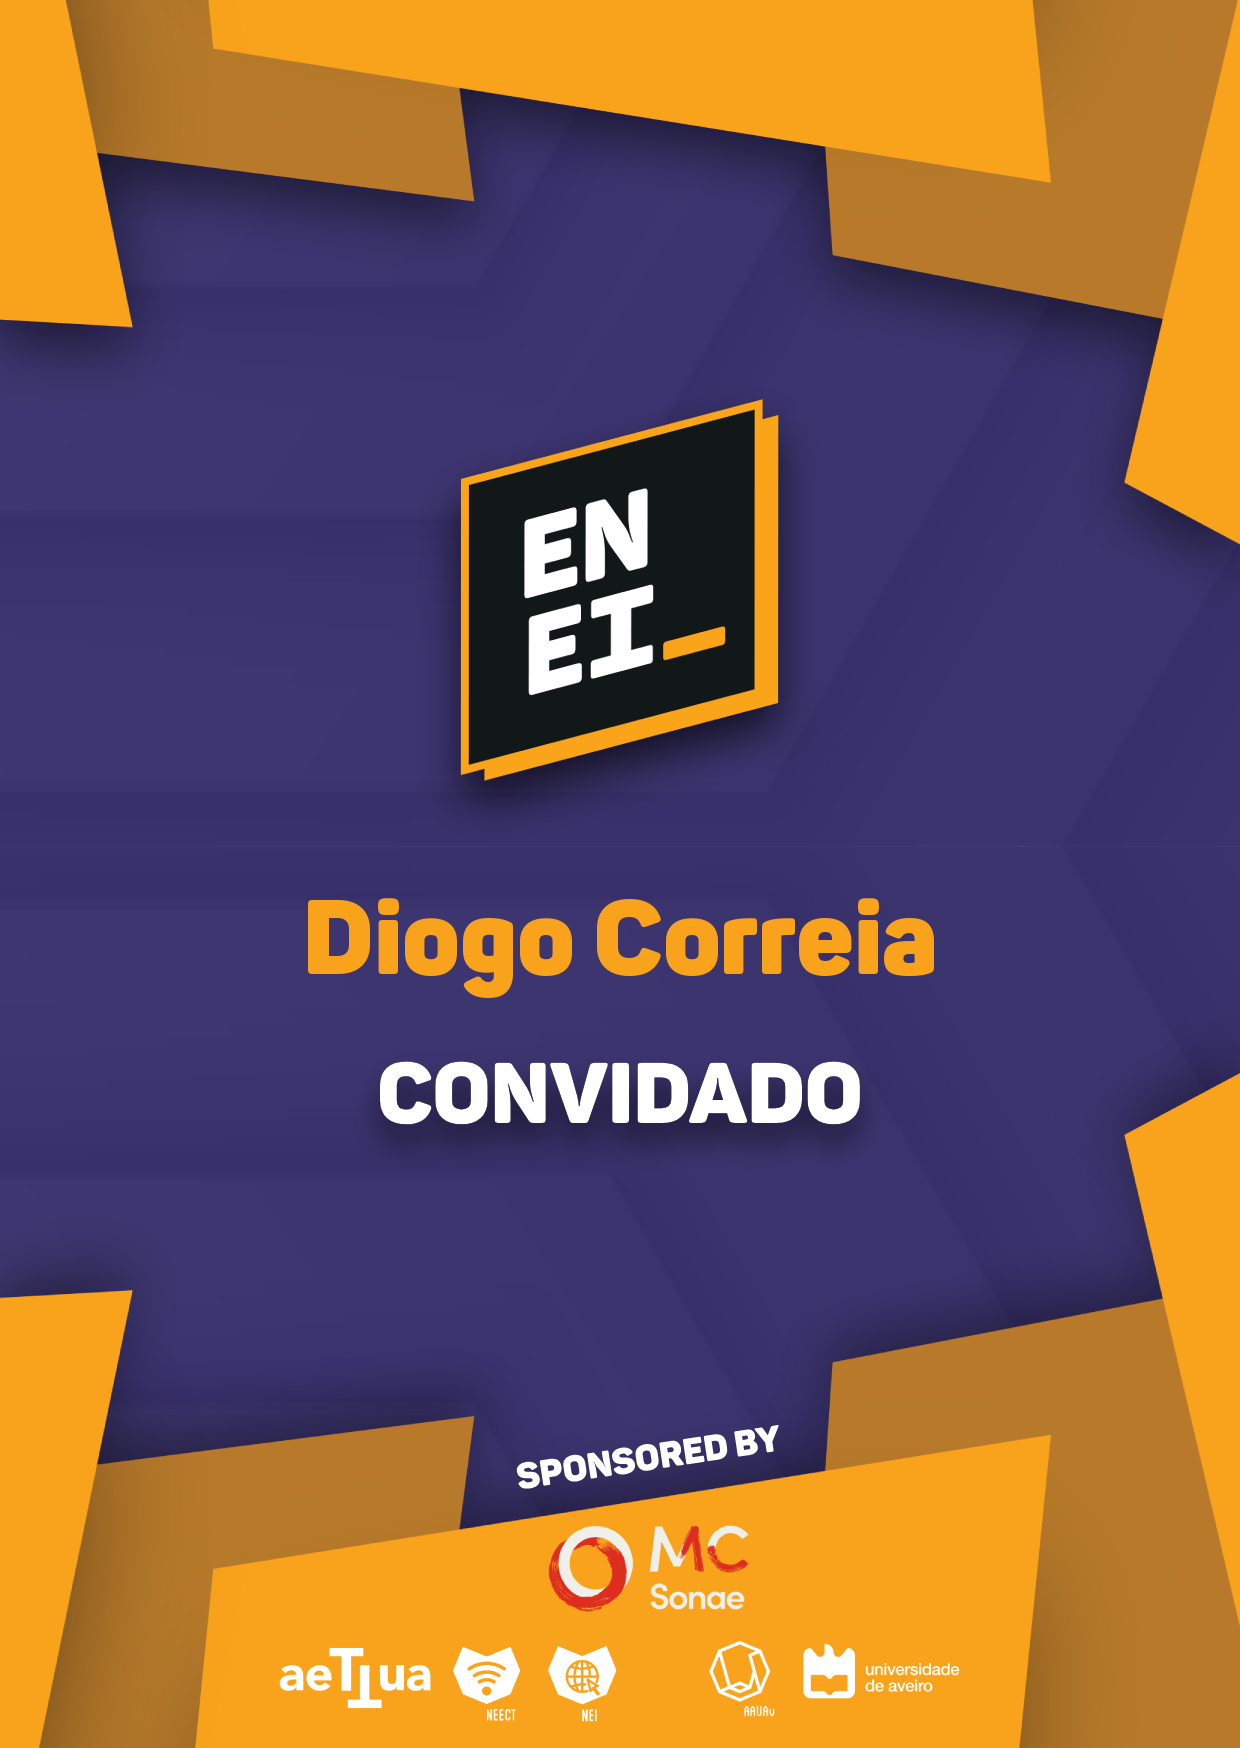
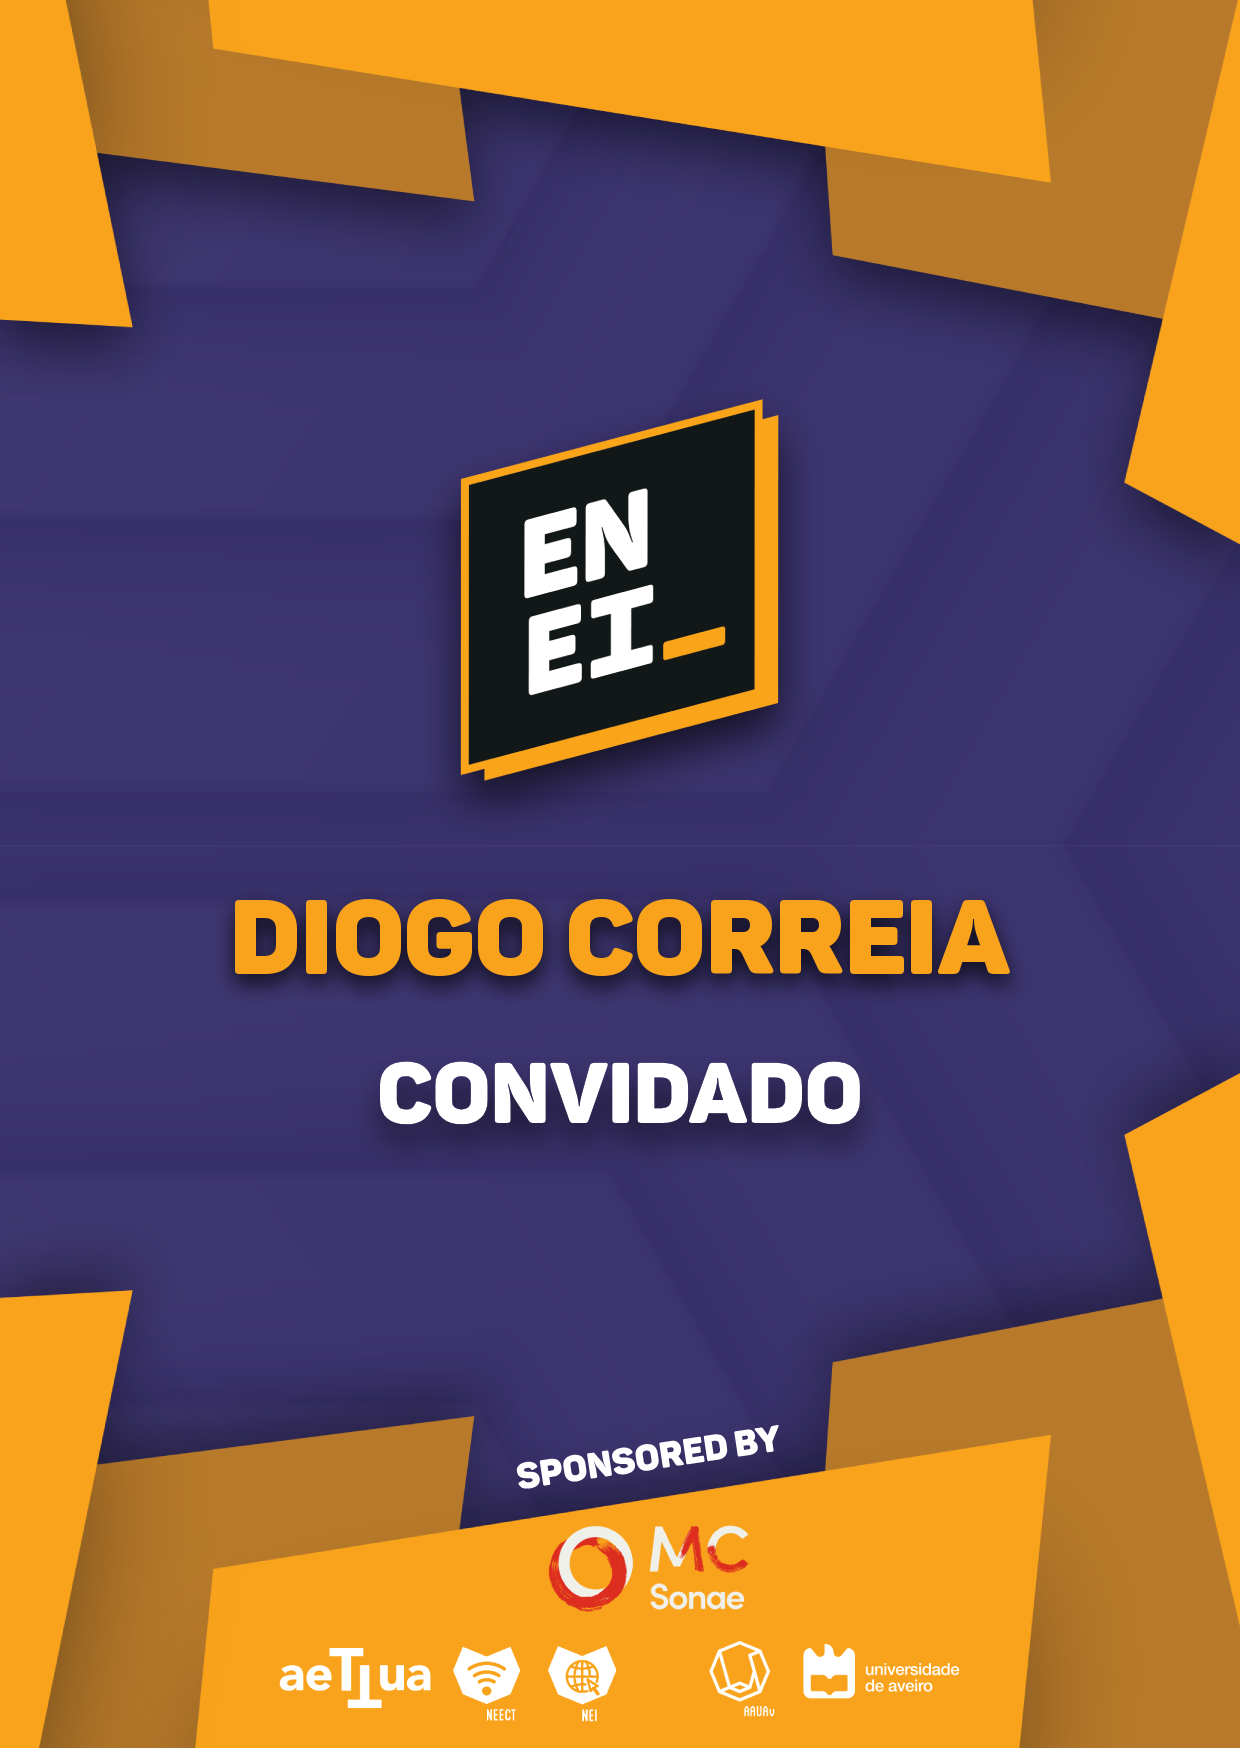
added shadow to name

Changed region(s): [[0.1839, 0.4943, 0.8274, 0.587]]

diff --git a/credentials.py b/credentials.py
@@ -1,4 +1,4 @@
-from PIL import Image, ImageFont, ImageDraw
+from PIL import Image, ImageFont, ImageDraw, ImageFilter
 
 FONT = "assets/Panton-Black.ttf"
 FONT_SIZE = 105
@@ -11,14 +11,35 @@ def getNames(file):
 		names = f.readlines()
 	return names
 
+def setShadow(I, text, position, opacity):
+	font = ImageFont.truetype(FONT, FONT_SIZE)
+
+	# Create a shadow text image with RGBA mode
+	shadow_text_image = Image.new("RGBA", I.size, (0, 0, 0, 0))  # Transparent black
+	shadow_text_draw = ImageDraw.Draw(shadow_text_image)
+	shadow_text_draw.text(position, text, fill=(0, 0, 0, opacity), font=font)
+
+	# Apply a blur filter to the shadow text
+	shadow_text_image = shadow_text_image.filter(ImageFilter.GaussianBlur(radius=10))
+
+	# Paste the shadow text onto the original image using alpha mask
+	I.paste(shadow_text_image, (0, 0), shadow_text_image)
+
 def writeCredential(name):
 	I=Image.open(CREDENTIAL)
 	W, H = I.size
 	font = ImageFont.truetype(FONT, FONT_SIZE)
 
+	name = name.upper()
 	draw = ImageDraw.Draw(I)
 	text_length = draw.textlength(name, font=font)
-	draw.text(((W-text_length)/2, UPPER_OFFSET), name, fill=COLOR, font=font)
+
+	shadow_position = ((W-text_length)/2, UPPER_OFFSET + 10)
+	name_position = ((W-text_length)/2, UPPER_OFFSET)
+
+	setShadow(I, name, shadow_position, 190)
+	draw.text(name_position, name, fill=COLOR, font=font)
+
 	I.save(name.lower().replace(" ", "_")+"-credential.png")
 
 def main():
